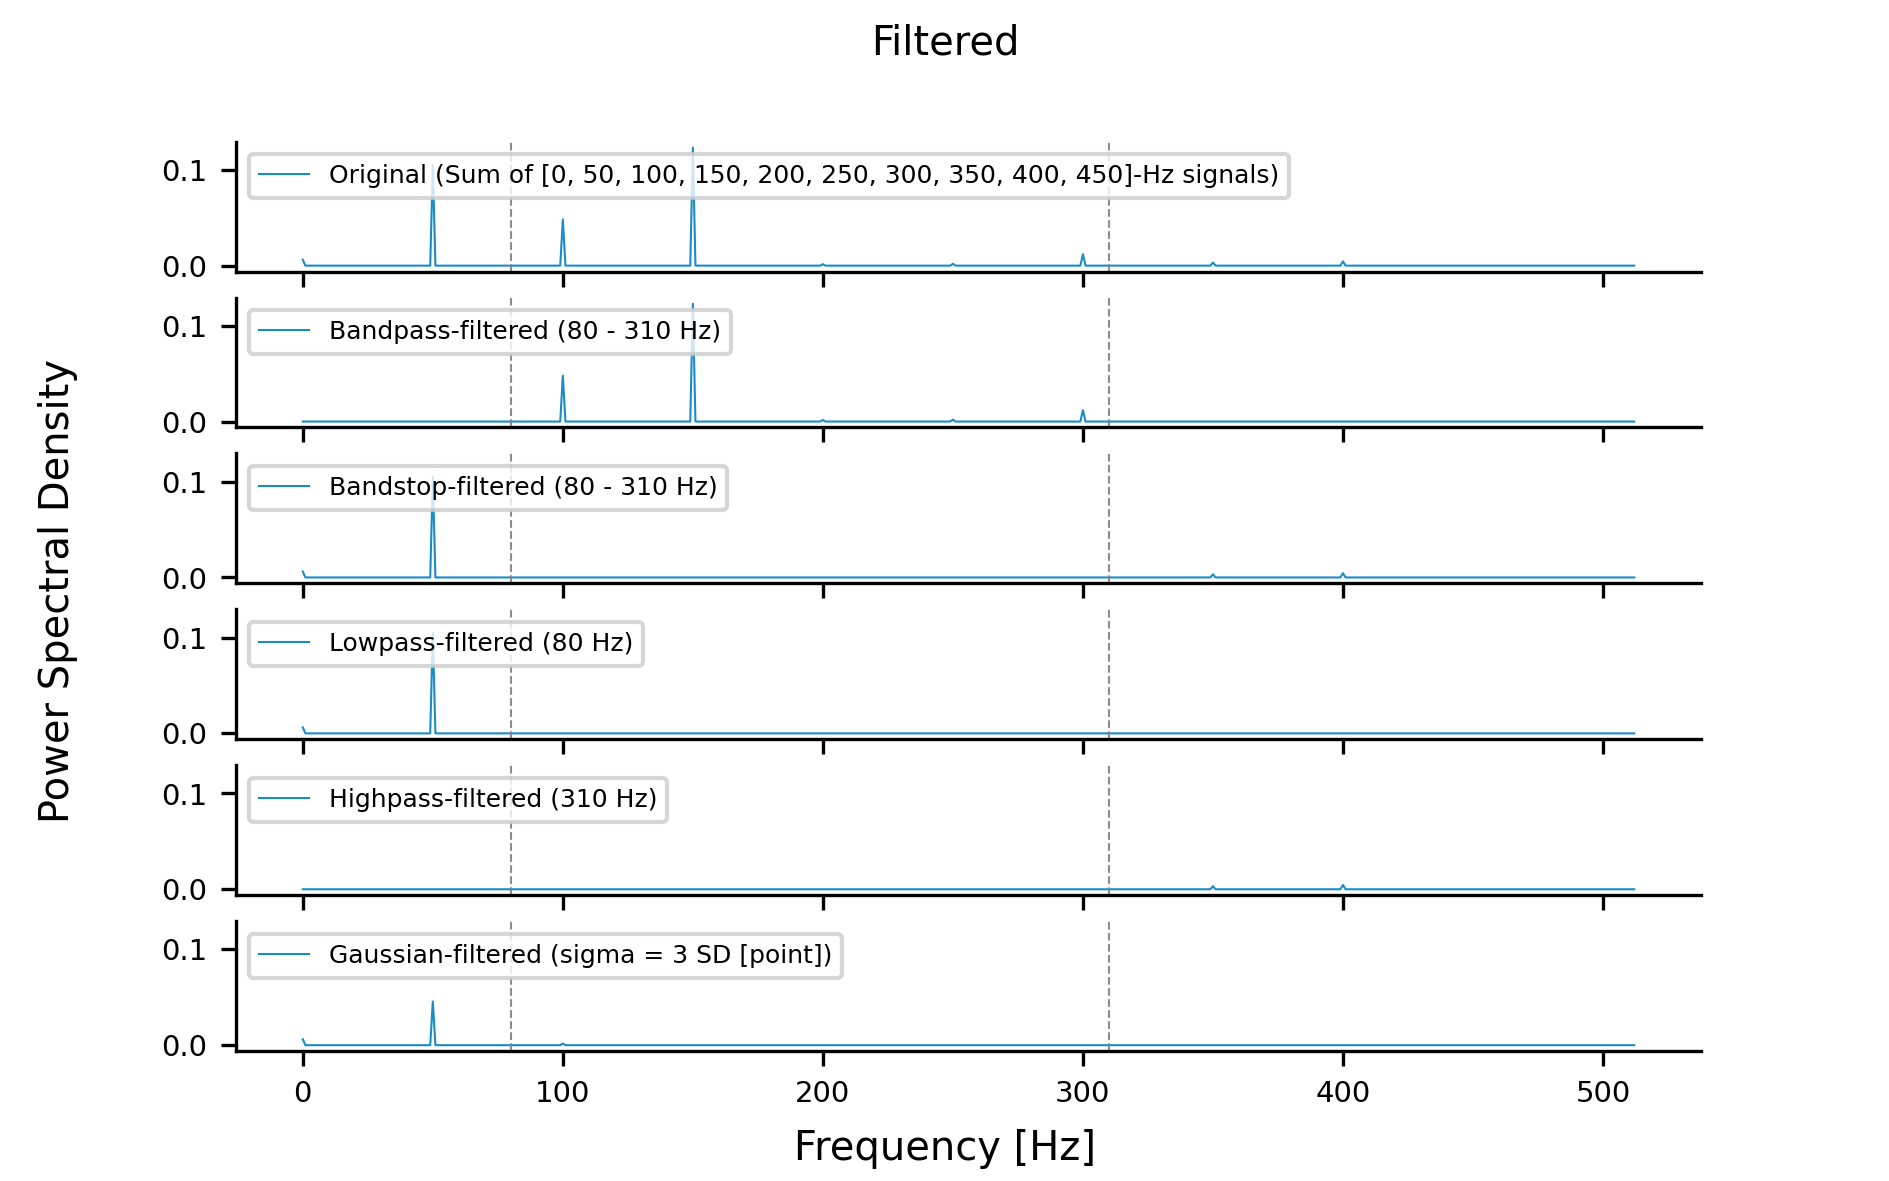
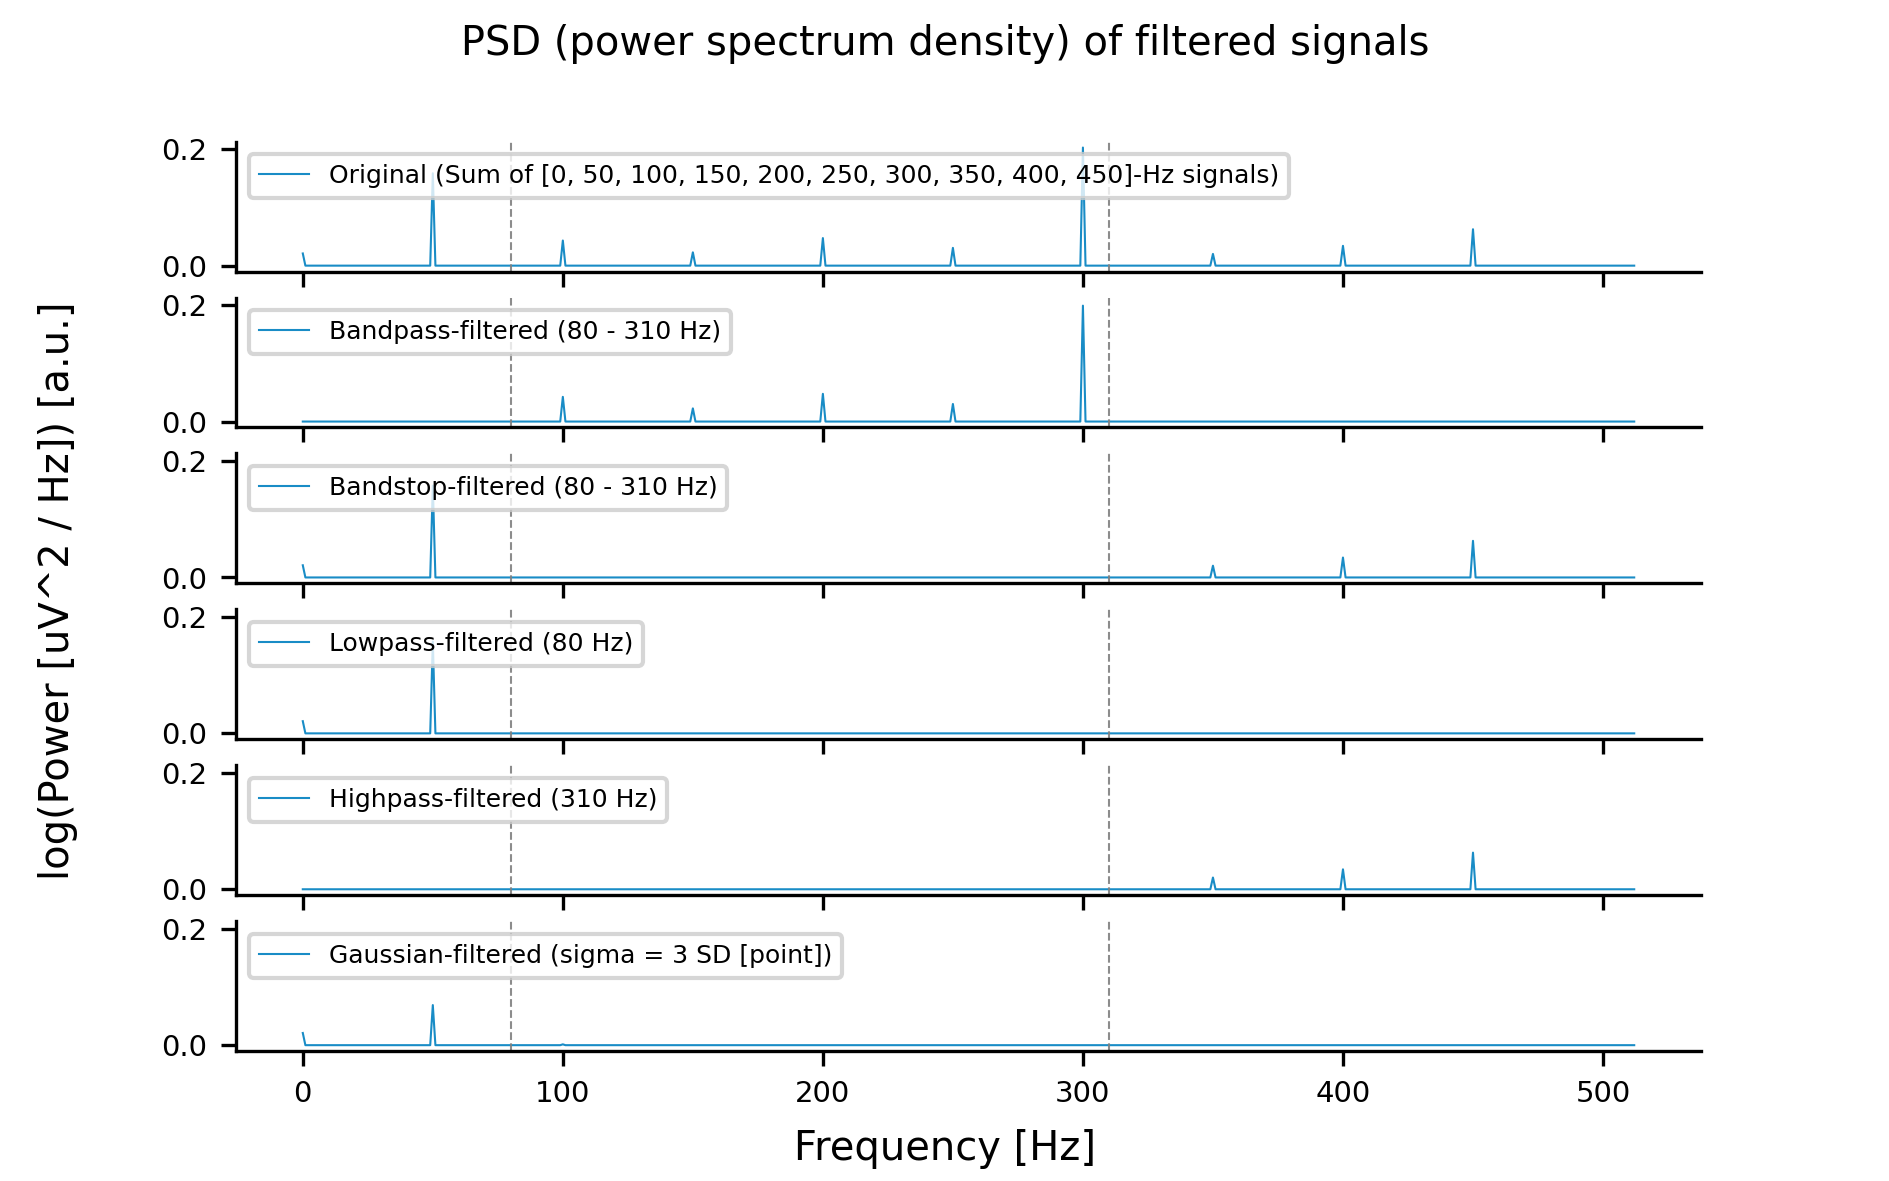
update

diff --git a/src/mngs/dsp/filt.py b/src/mngs/dsp/filt.py
@@ -1,6 +1,6 @@
 #!./env/bin/python3
 # -*- coding: utf-8 -*-
-# Time-stamp: "2024-04-13 03:36:43 (ywatanabe)"
+# Time-stamp: "2024-04-13 03:46:40 (ywatanabe)"
 
 
 import mngs
@@ -137,9 +137,9 @@ if __name__ == "__main__":
         for bb in np.hstack(BANDS):
             ax.axvline(x=bb, color=CC["grey"], linestyle="--")
 
-    fig.suptitle("Filtered")
+    fig.suptitle("PSD (power spectrum density) of filtered signals")
     fig.supxlabel("Frequency [Hz]")
-    fig.supylabel("Power Spectral Density")
+    fig.supylabel("log(Power [uV^2 / Hz]) [a.u.]")
     mngs.io.save(fig, "psd.png")
 
     # Close
